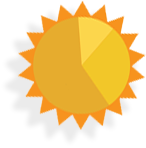
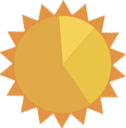
svg panels

diff --git a/app/scss/modules/_alternative.scss b/app/scss/modules/_alternative.scss
@@ -130,32 +130,41 @@
   .sun_battery_image{
 
     .sun_battery_image_sun {
-      img {
+      .sun, .shadow {
         position: absolute;
-        left: 0px;
-        animation: rotation 10s linear infinite;
+        top: -63px;
+        left: 68px;
+        animation: rotation 10s infinite linear;
         z-index: 1;
-        left: 62px;
-        top: -69px;
-        transform-origin: 77px 68px;
-        //@keyframes spin { 100% { -webkit-transform: rotate(360deg); transform:rotate(360deg); } }
-        @keyframes rotation {
-          0% {-webkit-transform:rotate(0deg);
-            -moz-transform:rotate(0deg);
-            -o-transform:rotate(0deg);
-            transform:rotate(0deg);}
-          100% {-webkit-transform:rotate(360deg);
-            -moz-transform:rotate(720deg);
-            -o-transform:rotate(360deg);
-            transform:rotate(360deg);}
-        }
+      }
+      .shadow {
+        left: 60px;
+        top: -55px;
+        filter: brightness(0) blur(3px);
+        opacity: 0.1;
+      }
+      @keyframes rotation {
+        0% { transform: rotate(0deg); }
+        100% { transform: rotate(360deg); }
       }
     }
     .sun_battery_image_platform {
-      img {
+      svg {
         position: absolute;
-        bottom: 0px;
+        top: 30px;
+        bottom: 0;
         left: 5px;
+        path {
+          animation: rayAnimation 10s linear reverse infinite;
+          @keyframes rayAnimation {
+            0% {
+              stroke-dashoffset: 0;
+            }
+            100% {
+              stroke-dashoffset: 100%;
+            }
+          }
+        }
       }
     }
   }

diff --git a/gulpfile.js b/gulpfile.js
@@ -47,6 +47,7 @@ gulp.task('watch', ['sass', 'script', 'pug'], function() {
 
 	gulp.watch('./app/scss/**/*.scss', ['sass']);
 	gulp.watch('./app/pug/**/*.pug', ['pug-watch']);
+	gulp.watch('./app/pug/**/*.svg', ['pug-watch']);
 	gulp.watch('./app/js/modules/**/*.js', ['script']);
 	gulp.watch('./app/pug/**/*.html', ['pug-watch']);
 
